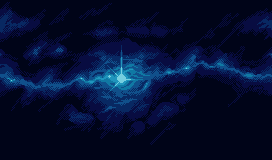
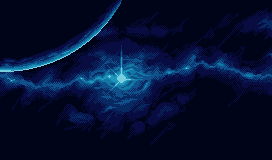
fixed the issue in BackgroundSlideshow where it only loops between first two images in backgroundImage array

Changed region(s): [[0.0, 0.0, 0.4706, 0.4688], [0.0, 0.0312, 0.1765, 0.25], [0.1765, 0.0625, 0.2647, 0.1562]]

diff --git a/src/main/BackgroundSlideshow.java b/src/main/BackgroundSlideshow.java
@@ -18,10 +18,8 @@ public class BackgroundSlideshow {
     public BackgroundSlideshow(GameFrame game) {
 
         this.game = game;
-
         getBackgroundImage();
         startSlideshow();
-
     }
 
     public void getBackgroundImage() {
@@ -48,23 +46,22 @@ public class BackgroundSlideshow {
         timer.scheduleAtFixedRate(new TimerTask() {
             @Override
             public void run() {
-                currentImageIndex = (currentImageIndex + 1) % backgroundImage.length;
-                xOffset = 0; // reset xOffset
+                xOffset += (double) 1.2;
+                if (xOffset >= game.screenWidth) {
+                    xOffset = 0;
+                    currentImageIndex = (currentImageIndex + 1) % backgroundImage.length;
+                }
             }
-        }, 0, 999999999);
+        }, 0, 70); // Adjust the delay to control slideshow speed
     }
 
     public void draw(Graphics2D g2D) {
 
         BufferedImage currentImage = backgroundImage[currentImageIndex];
-        BufferedImage nextImage = backgroundImage[(currentImageIndex + 1) % backgroundImage.length];
-
         g2D.drawImage(currentImage, -xOffset, 0, game.screenWidth, game.screenHeight, null);
-        g2D.drawImage(nextImage, game.screenWidth - xOffset, 0, game.screenWidth, game.screenHeight, null);
 
-        xOffset += 2; // set the slideshow speed
-        if (xOffset >= game.screenWidth) {
-            xOffset = 0;
-        }
+        int nextImageIndex = (currentImageIndex + 1) % backgroundImage.length;
+        BufferedImage nextImage = backgroundImage[nextImageIndex];
+        g2D.drawImage(nextImage, game.screenWidth - xOffset, 0, game.screenWidth, game.screenHeight, null);
     }
 }

diff --git a/src/main/GameFrame.java b/src/main/GameFrame.java
@@ -255,7 +255,7 @@ public class GameFrame extends JPanel implements Runnable {
 
                 rocketSpawn();// spawn rockets on key press
                 asteroidSpawn();// spawn asteroid
-                ufoSpawn();// spawn ufo's
+                //ufoSpawn();// spawn ufo's
                 checkRockets();// checks rocket collision
                 checkBomb();// checks boom collision
                 removeDead();// remove dead objects
